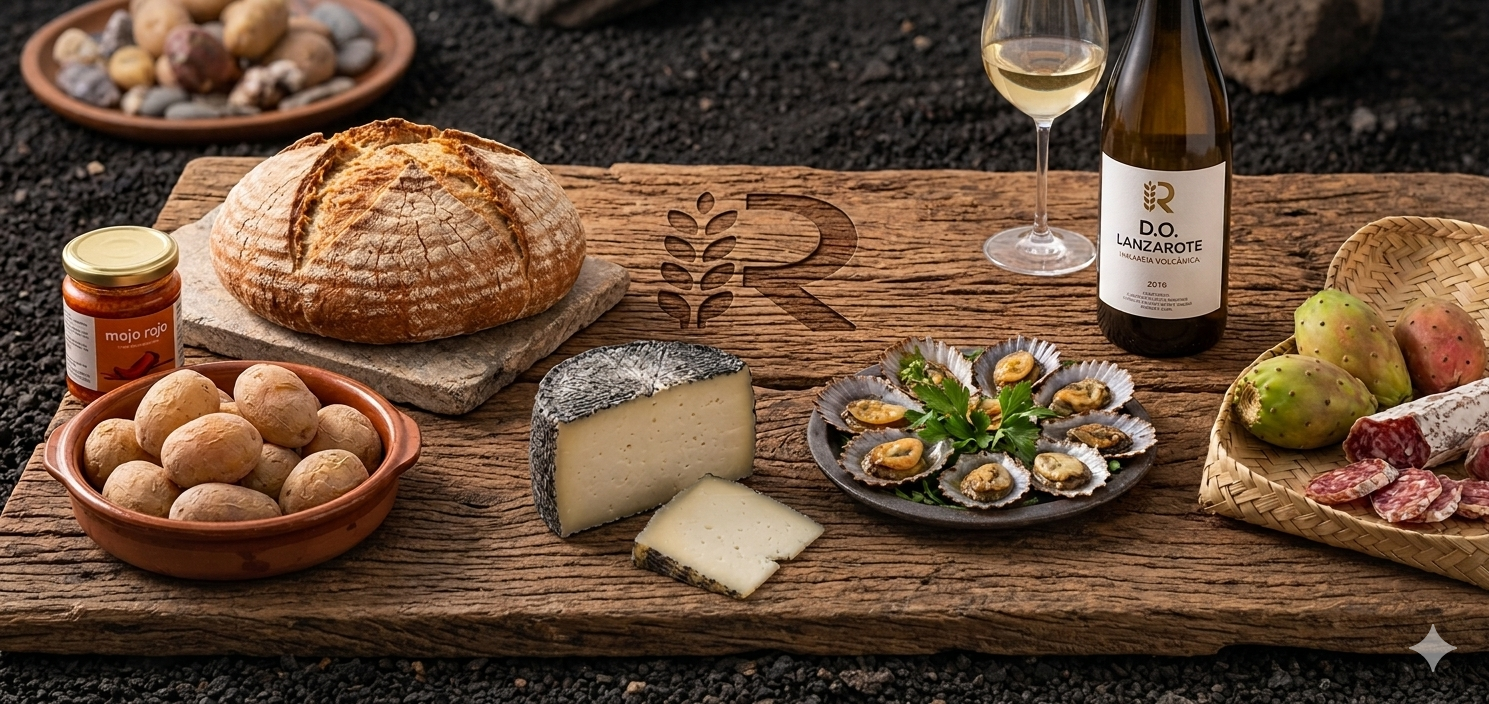
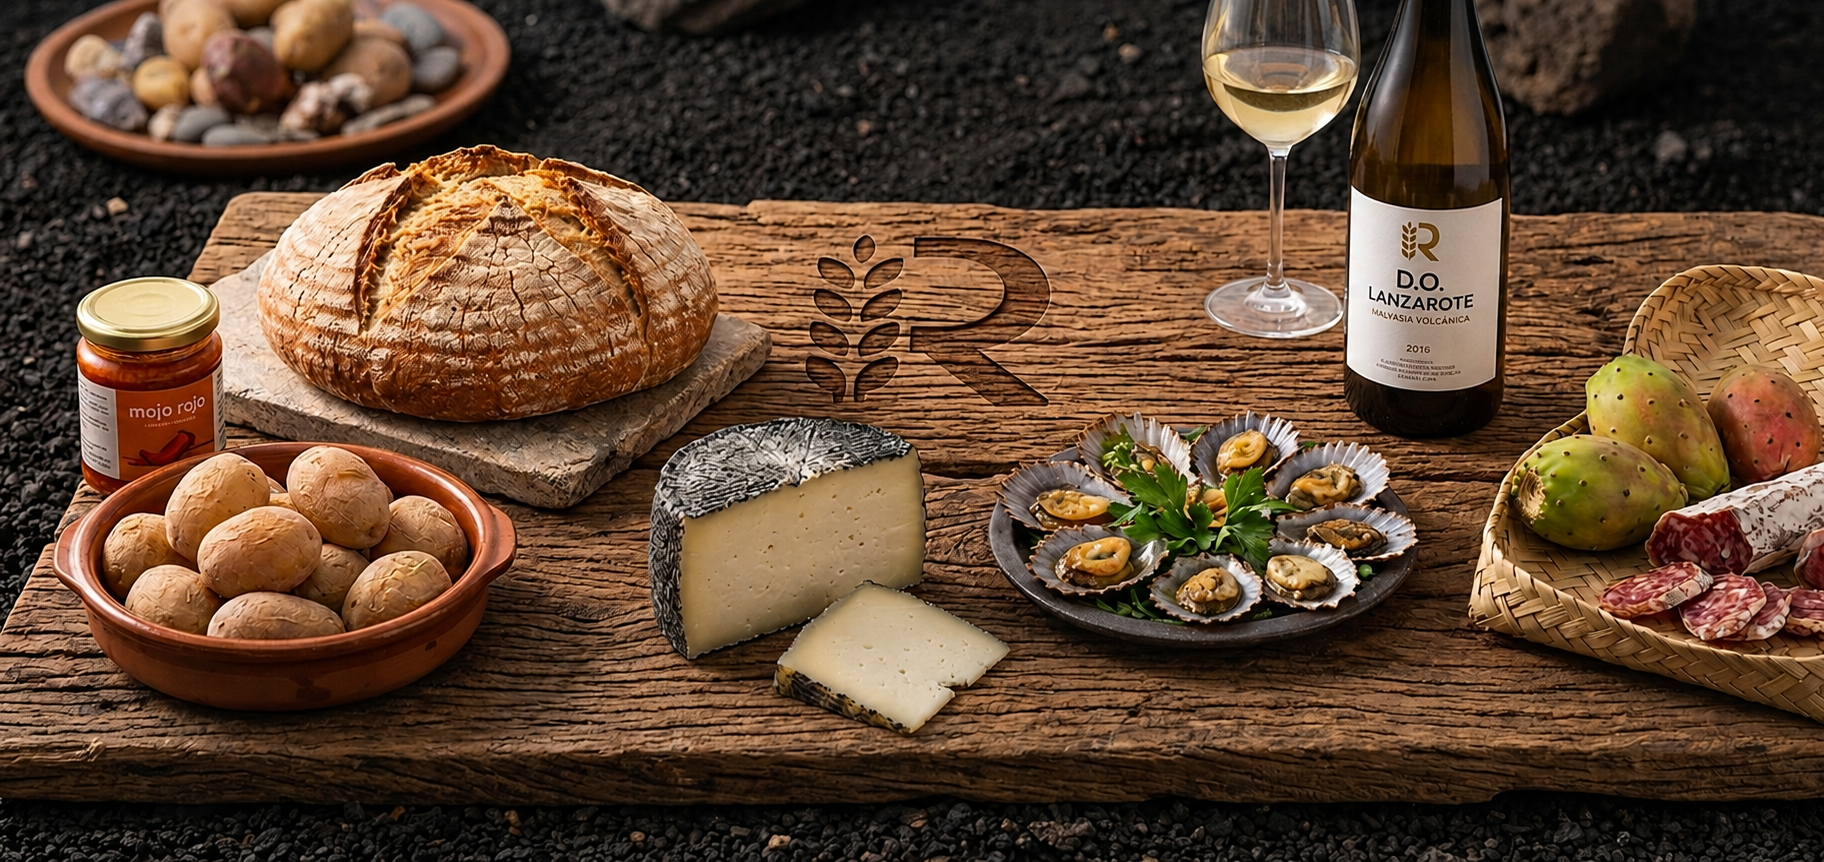
FIX/ IMAGES HOME PAGE & BETTER SEO

diff --git a/resources/js/Pages/Inicio.vue b/resources/js/Pages/Inicio.vue
@@ -68,7 +68,7 @@ onMounted(() => {
 </script>
 
 <template>
-    <Head title="Tiendas - Rustikan" />
+    <Head title="" />
 
     <!-- Toast container -->
     <div class="pointer-events-none fixed top-20 right-4 z-[9999] flex flex-col items-end gap-3 max-w-sm w-full">
@@ -110,13 +110,14 @@ onMounted(() => {
                     <h2 class="text-2xl sm:text-3xl lg:text-4xl font-extrabold tracking-tight text-gray-900 dark:text-white">{{ t('home.categories_title') }}</h2>
                 </div>
 
-                <!-- Grid de categorías circulares -->
-                <div class="flex flex-wrap justify-center gap-5 sm:gap-8">
+                <!-- Fila única de categorías — scroll horizontal en móvil, centradas en desktop -->
+                <div class="overflow-x-auto pb-2 [-ms-overflow-style:none] [scrollbar-width:none] [&::-webkit-scrollbar]:hidden">
+                    <div class="flex flex-nowrap justify-center gap-4 sm:gap-8 min-w-max sm:min-w-0 mx-auto">
                     <Link
                         v-for="(cat, index) in categorias"
                         :key="cat.id"
                         :href="route('categoria.tiendas', cat.slug)"
-                        class="group flex flex-col items-center"
+                        class="group flex flex-shrink-0 flex-col items-center w-20 sm:w-24"
                     >
                         <!-- Círculo -->
                         <div class="flex h-20 w-20 sm:h-24 sm:w-24 items-center justify-center rounded-full border-2 border-gray-200 dark:border-gray-600 bg-white dark:bg-gray-800 shadow-sm transition-all duration-300 group-hover:scale-105 group-hover:border-primary-400 group-hover:shadow-xl overflow-hidden">
@@ -124,16 +125,17 @@ onMounted(() => {
                                 v-if="categoriaImagen[cat.slug]"
                                 :src="categoriaImagen[cat.slug]"
                                 :alt="cat.nombre"
-                                class="h-full w-full object-cover"
+                                class="h-full w-full object-cover scale-110"
                             />
                             <CategoriaIcono v-else :slug="cat.slug" :icono="cat.icono" class="h-7 w-7 sm:h-9 sm:w-9 text-gray-700 dark:text-gray-200 group-hover:text-primary-500 transition-colors" />
                         </div>
 
                         <!-- Etiqueta debajo -->
-                        <span class="mt-2 whitespace-nowrap text-[10px] sm:text-xs font-semibold uppercase tracking-wide text-gray-600 dark:text-gray-300 transition-colors group-hover:text-primary-500">
+                        <span class="mt-2 text-[10px] sm:text-xs font-semibold uppercase tracking-wide text-gray-600 dark:text-gray-300 transition-colors group-hover:text-primary-500 text-center leading-tight w-full">
                             {{ cat.nombre }}
                         </span>
                     </Link>
+                    </div>
                 </div>
 
                 <!-- Estado vacío -->

diff --git a/resources/js/Pages/Auth/VerifyEmail.vue b/resources/js/Pages/Auth/VerifyEmail.vue
@@ -64,7 +64,7 @@ const submitResend = () => resendForm.post(route('verification.send'));
 
 <template>
     <GuestLayout>
-        <Head title="Verifica tu correo – Rustikan" />
+        <Head title="Verifica tu correo" />
 
         <div class="flex flex-col items-center text-center">
             <!-- Icono -->

diff --git a/resources/js/Pages/Carrito.vue b/resources/js/Pages/Carrito.vue
@@ -254,7 +254,7 @@ const stepTitle = computed(() => ({
 </script>
 
 <template>
-    <Head title="Mi carrito – Rustikan" />
+    <Head title="Mi carrito" />
 
     <div class="min-h-screen bg-gray-50 dark:bg-gray-950 transition-colors duration-300">
 

diff --git a/resources/js/Pages/Info/CentroAyuda.vue b/resources/js/Pages/Info/CentroAyuda.vue
@@ -1,6 +1,6 @@
 <template>
     <div :class="isDark ? 'dark' : ''">
-        <Head title="Centro de ayuda - Rustikan" />
+        <Head title="Centro de ayuda" />
         <NavbarPublico />
 
         <!-- Hero -->

diff --git a/resources/js/Pages/Info/Contacto.vue b/resources/js/Pages/Info/Contacto.vue
@@ -1,6 +1,6 @@
 <template>
     <div class="min-h-screen bg-white dark:bg-gray-900">
-        <Head title="Contacto - Rustikan" />
+        <Head title="Contacto" />
         <NavbarPublico />
 
         <!-- Toasts -->

diff --git a/resources/js/Pages/Info/Cookies.vue b/resources/js/Pages/Info/Cookies.vue
@@ -1,6 +1,6 @@
 <template>
     <div class="min-h-screen bg-white dark:bg-gray-900">
-        <Head title="Política de cookies - Rustikan" />
+        <Head title="Política de cookies" />
         <NavbarPublico />
 
         <!-- Hero -->

diff --git a/resources/js/Pages/Info/HazteRepartidor.vue b/resources/js/Pages/Info/HazteRepartidor.vue
@@ -1,6 +1,6 @@
 <template>
     <div :class="isDark ? 'dark' : ''">
-        <Head title="Hazte repartidor - Rustikan" />
+        <Head title="Hazte repartidor" />
         <NavbarPublico />
 
         <!-- Hero -->

diff --git a/resources/js/Pages/Info/NuestraMision.vue b/resources/js/Pages/Info/NuestraMision.vue
@@ -1,6 +1,6 @@
 <template>
     <div class="min-h-screen bg-white dark:bg-gray-900">
-        <Head title="Nuestra misión - Rustikan" />
+        <Head title="Nuestra misión" />
         <NavbarPublico />
 
         <!-- Hero -->

diff --git a/resources/js/Pages/Info/PreguntasFrecuentes.vue b/resources/js/Pages/Info/PreguntasFrecuentes.vue
@@ -1,6 +1,6 @@
 <template>
     <div class="min-h-screen bg-white dark:bg-gray-900">
-        <Head title="Preguntas frecuentes - Rustikan" />
+        <Head title="Preguntas frecuentes" />
         <NavbarPublico />
 
         <!-- Hero -->

diff --git a/resources/js/Pages/Info/Privacidad.vue b/resources/js/Pages/Info/Privacidad.vue
@@ -1,6 +1,6 @@
 <template>
     <div class="min-h-screen bg-white dark:bg-gray-900">
-        <Head title="Política de privacidad - Rustikan" />
+        <Head title="Política de privacidad" />
         <NavbarPublico />
 
         <!-- Hero -->

diff --git a/resources/js/Pages/Info/QuienesSomos.vue b/resources/js/Pages/Info/QuienesSomos.vue
@@ -1,6 +1,6 @@
 <template>
     <div class="min-h-screen bg-white dark:bg-gray-900">
-        <Head title="Quiénes somos - Rustikan" />
+        <Head title="Quiénes somos" />
         <NavbarPublico />
 
         <!-- Hero -->

diff --git a/resources/js/Pages/Info/Terminos.vue b/resources/js/Pages/Info/Terminos.vue
@@ -1,6 +1,6 @@
 <template>
     <div class="min-h-screen bg-white dark:bg-gray-900">
-        <Head title="Términos y condiciones - Rustikan" />
+        <Head title="Términos y condiciones" />
         <NavbarPublico />
 
         <!-- Hero -->